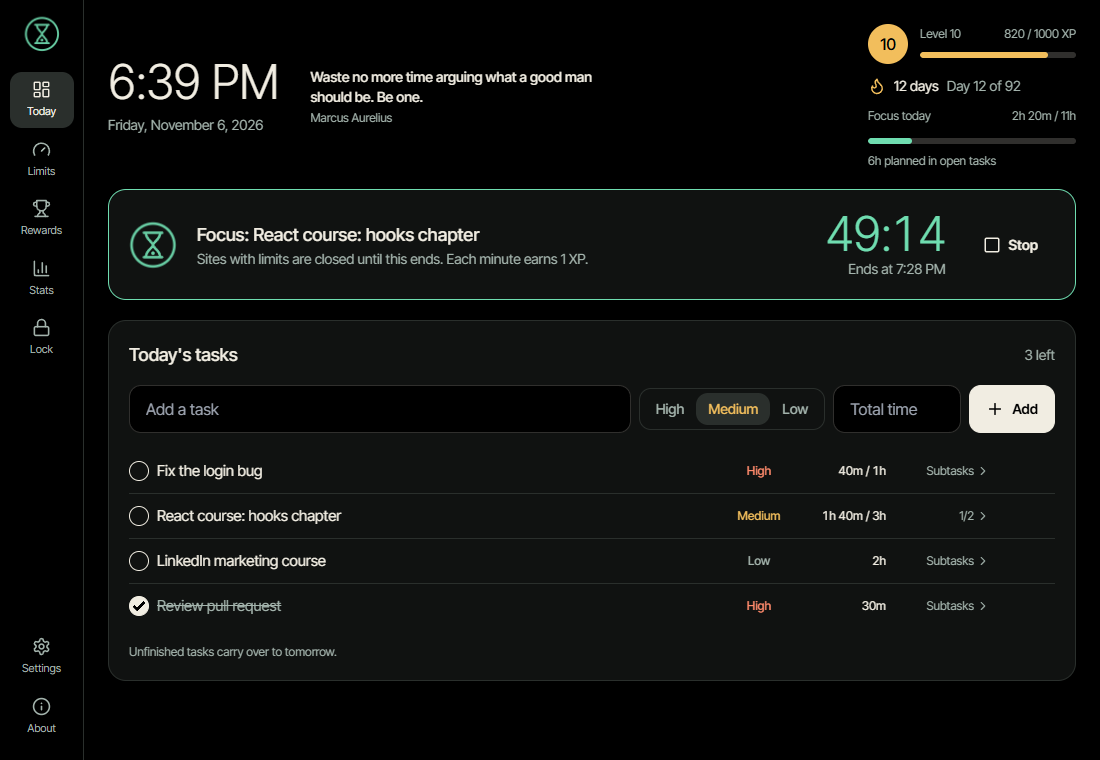
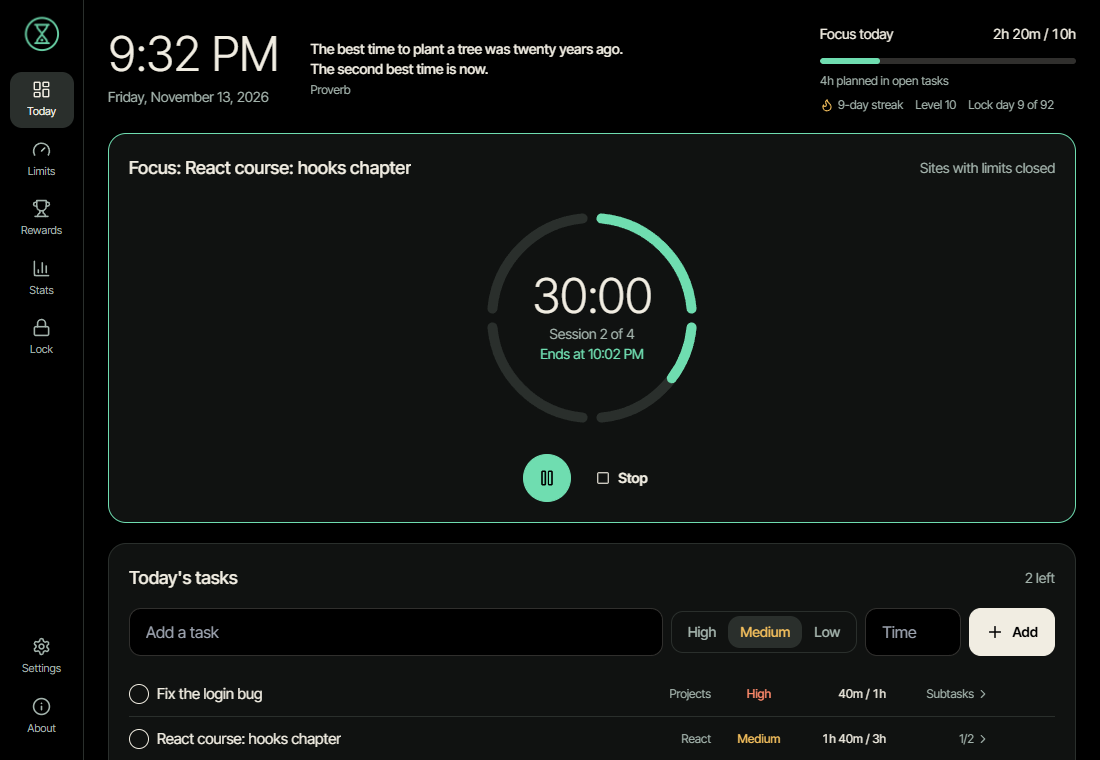
Update the README screenshots and demo to the new UI
The screenshots and demo GIF now show the simpler Today header, the
focus ring, the Limits bars and the Stats chart with hours on each bar.

Stats: a bar's hours now sit inside the top of a tall bar, so the label
no longer crosses the target line.

diff --git a/app/src/screens/Stats.tsx b/app/src/screens/Stats.tsx
@@ -77,9 +77,10 @@ function Bars({
             {showValues && day.focusSec >= 60 && (
               <text
                 x={i * slot + slot / 2}
-                y={y(day.focusSec) - 6}
+                // Inside the top of a tall bar, so it never crosses the target line.
+                y={height > 28 ? y(day.focusSec) + 18 : y(day.focusSec) - 6}
                 textAnchor="middle"
-                className="fill-base-content text-[12px]"
+                className={`text-[12px] font-medium ${height > 28 && day.focusSec >= targetSec ? "fill-secondary-content" : "fill-base-content"}`}
               >
                 {formatDuration(day.focusSec)}
               </text>
